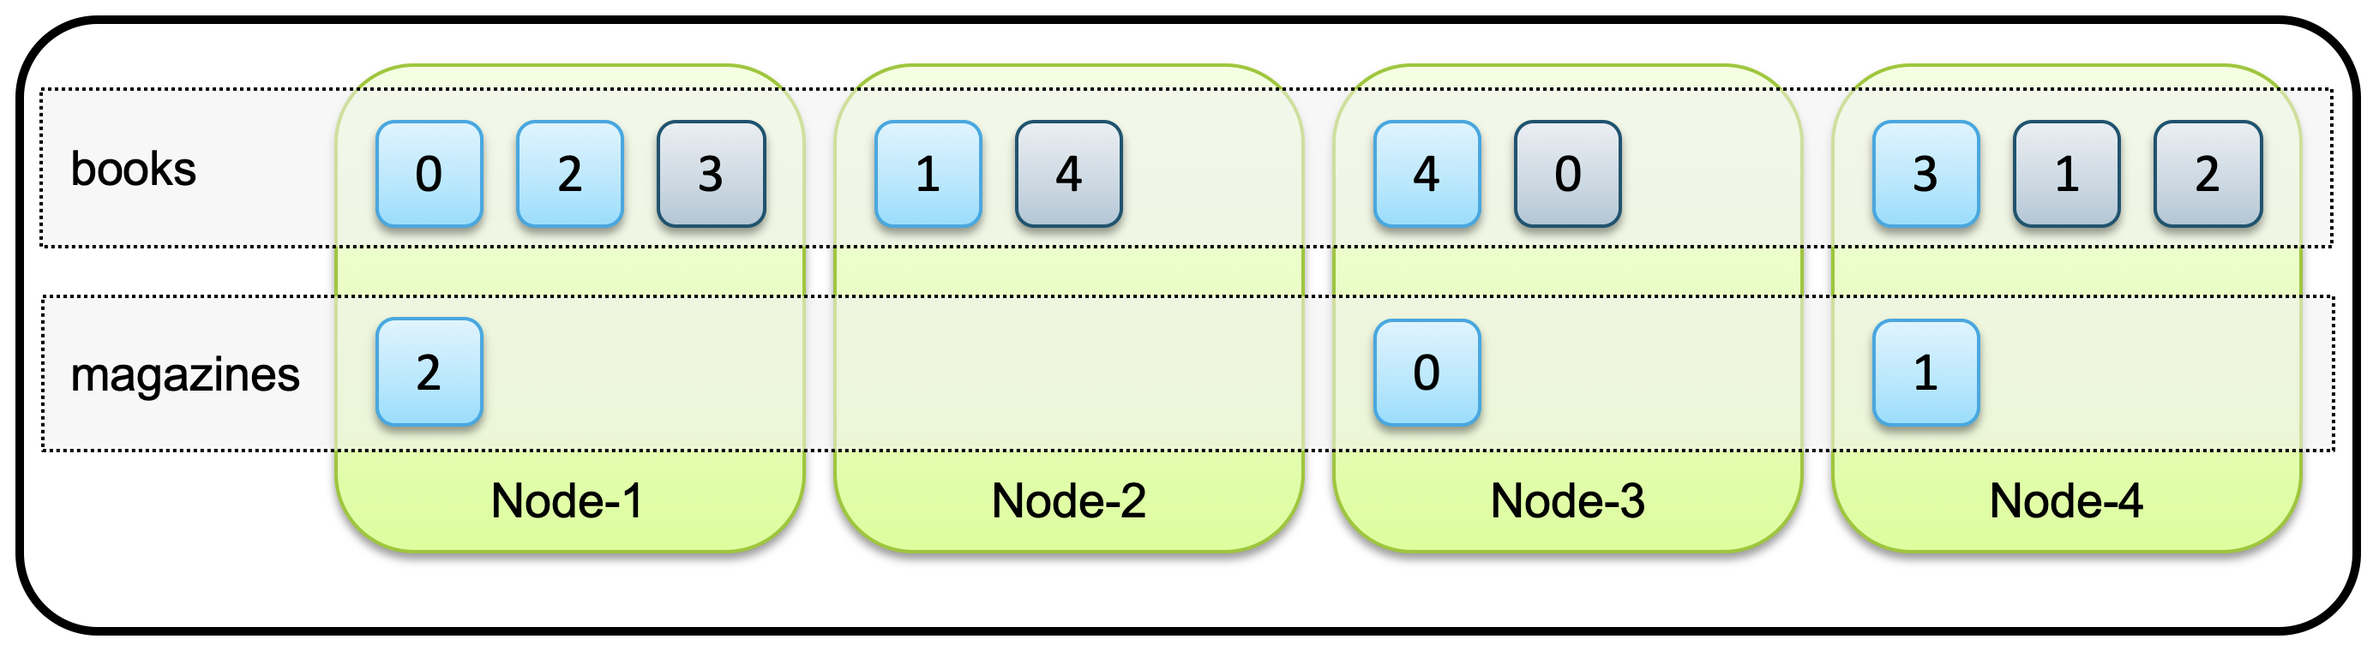
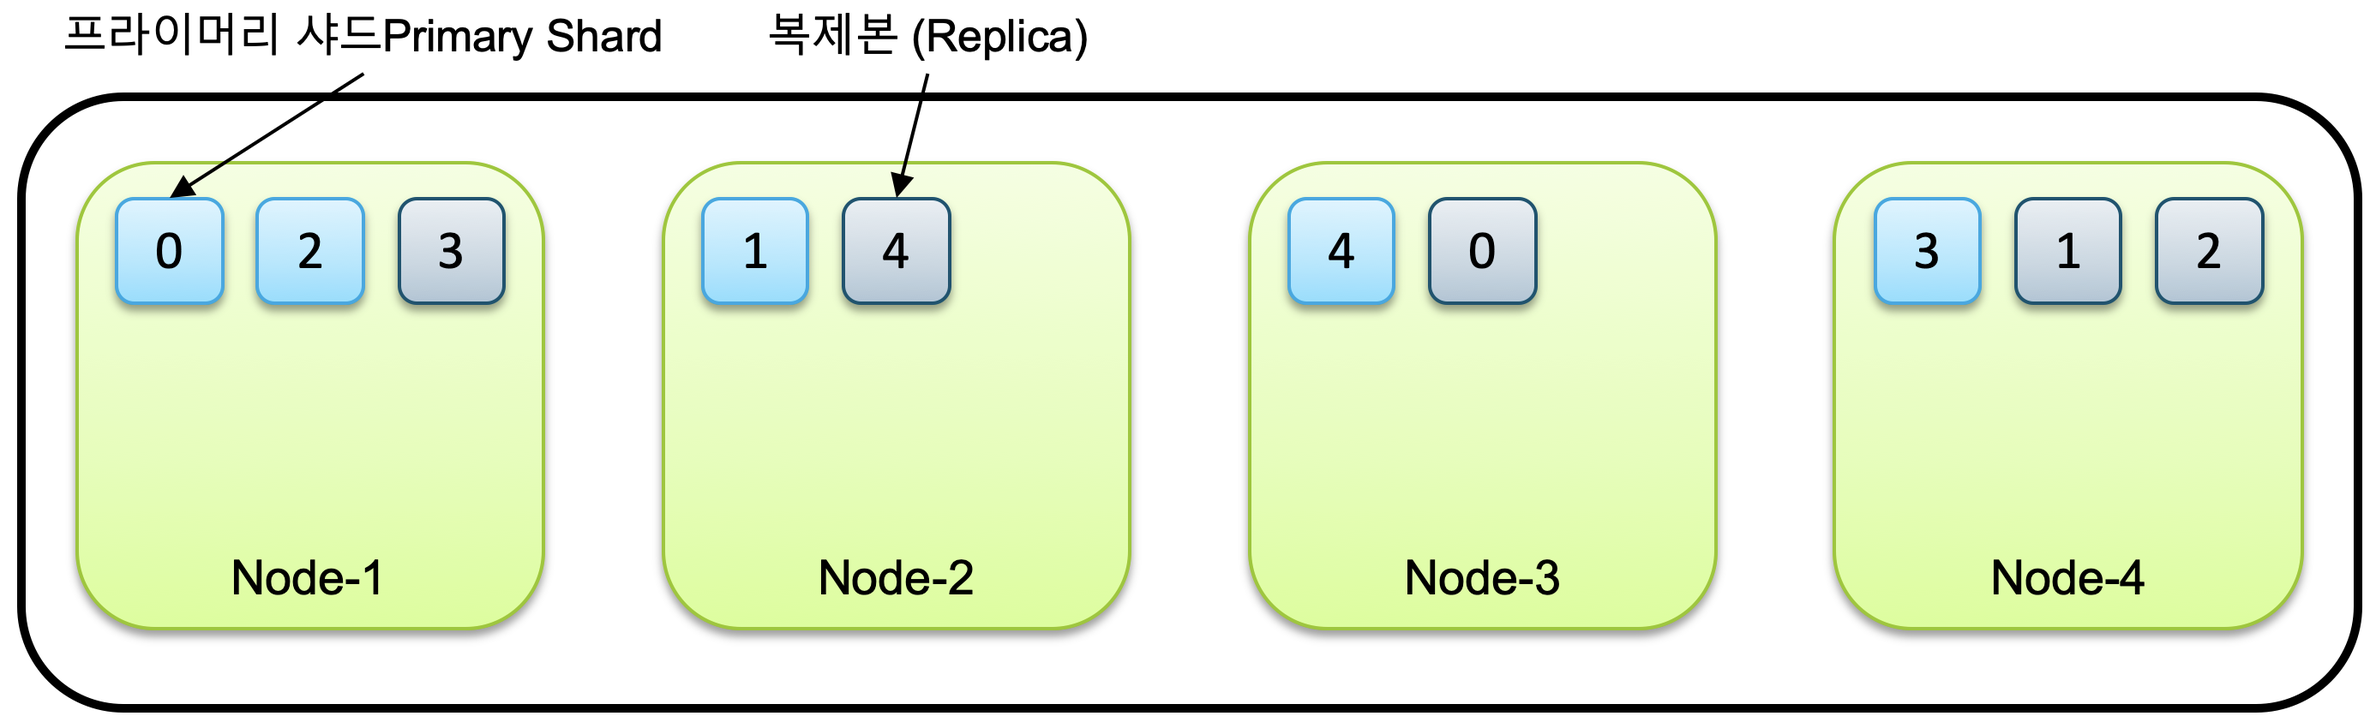
GitBook: [master] 10 pages and 25 assets modified

diff --git a/04-data/4.1-rest-api.md b/04-data/4.1-rest-api.md
@@ -1,0 +1,71 @@
+---
+description: >-
+  이 문서의 허가되지 않은 무단 복제나 배포 및 출판을 금지합니다. 본 문서의 내용 및 도표 등을 인용하고자 하는 경우 출처를 명시하고
+  김종민(kimjmin@gmail.com)에게 사용 내용을 알려주시기 바랍니다.
+---
+
+# 4.1 REST API
+
+  Elasticsearch는 http 프로토콜로 접근이 가능한 REST API를 지원합니다. 자원별로 고유 URL로 접근이 가능하며 http 메서드 PUT, POST, GET, DELETE 를 이용해서 자원을 처리합니다. 이런 특성을 가진 시스템을 보통 **RESTFul** 한 시스템이라고 말합니다.
+
+  REST API가 익숙치 않은 분들을 위해 간단한 비교 설명을 드리면 다음과 같습니다. 사용자 정보를 다루는 **user.com** 이라는 시스템이 있다고 가정하고 **name=kim, age=38, gender=m** 이라는 사용자 정보를 처리한다고 해 보겠습니다. REST를 지원하지 않는 시스템에서는 보통 다음과 같이 각 가능에 대한 개별 페이지로 접근하거나 명령을 매개변수로 처리합니다.
+
+#### RESTFul 하지 않은 시스템에서의 데이터 처리
+
+* 입력 : `http://user.com/input.jsp?name=kim&age=38&gender=m`
+* 조회 : `http://user.com/get.jsp?name=kim`
+* 삭제 : `http://user.com/delete.jsp?name=kim`
+
+  REST API를 지원하는 시스템은 kim 이라는 사용자에 대해 항상 단일 URL로 접근을 하고 **PUT, GET, DELETE** 같은 http 메서드로 데이터를 처리합니다
+
+#### RESTFul 한 시스템에서의 데이터 처리
+
+* 입력 : `PUT http://user.com/kim -d {"name":"kim", "age":38, "gender":"m"}`
+* 조회 : `GET http://user.com/kim`
+* 삭제 : `DELETE http://user.com/kim`
+
+### 유닉스 curl
+
+  MacOS, 리눅스와 같은 유닉스 기반 운영체제에서는 `curl` 명령어로 간편하게 REST API 사용이 가능합니다. Elasticsearch를 실행한 뒤 curl 명령을 이용해서 elasticsearch 클러스터의 최상위 경로를 호출하며 다음과 같이 클러스터의 상태 정보가 json 형식으로 리턴됩니다.
+
+{% code-tabs %}
+{% code-tabs-item title="GET 메서드로 elasticsearch 클러스터 조회" %}
+```bash
+$ curl -XGET "http://localhost:9200"
+{
+  "name" : "Jongminui-MacBook-Pro.local",
+  "cluster_name" : "elasticsearch",
+  "cluster_uuid" : "hpmT8TPiR1Kk69YNao9V3w",
+  "version" : {
+    "number" : "7.3.0",
+    "build_flavor" : "default",
+    "build_type" : "tar",
+    "build_hash" : "de777fa",
+    "build_date" : "2019-07-24T18:30:11.767338Z",
+    "build_snapshot" : false,
+    "lucene_version" : "8.1.0",
+    "minimum_wire_compatibility_version" : "6.8.0",
+    "minimum_index_compatibility_version" : "6.0.0-beta1"
+  },
+  "tagline" : "You Know, for Search"
+}
+```
+{% endcode-tabs-item %}
+{% endcode-tabs %}
+
+  리턴된 결과는 노드명, 클러스터명, Elasticsearch 버전, 루씬 버전 등의 정보들을 담고 있습니다.
+
+### Kibana Dev Tools
+
+  Rest API를 쉽게 사용하기 위해서는 [포스트맨](https://www.getpostman.com) 같은 도구를 사용할 수 있습니다. Kibana에는 elasticsearch 에서 REST API를 간편하게 실행할 수 있는 **Dev Tools** 라는 도구를 제공합니다.
+
+  먼저 Kibana를 실행하기 위해서는 Elastic 홈페이지 \([https://www.elastic.co](https://www.elastic.co)\)에서 운영체제별로 맞는 Kibana 버전을 내려받아 압축을 풀고 `bin/kibana` 또는 `bin/kibana.bat` \(윈도우즈\) 를 실행시키면 디폴트로 같은 호스트의 **localhost:9200** 에서 실행중인 elasticsearch와 통신하며 실행이 됩니다.
+
+  Elasticsearch와 Kibana가 서로 다른 호스트에서 실행되고 있거나 통신 포트가 9200이 아니면 Kibana 홈 config 디렉토리 아래에 있는 `kibana.yml` 파일에서 `elasticsearch.url: "http://localhost:9200"` 옵션을 설정하면 됩니다. 기본적으로 Kibana는 5601 포트에서 실행이 되며 변경하고 싶으면 `server.port: 5601` 을 변경하고 싶은 포트 값으로 설정합니다.
+
+  Kibana를 실행한 뒤 웹 브라우저를 열고 [http://localhost:5601](http://localhost:5601) 로 접속하면 Kibana를 바로 사용할 수 있습니다. Kibana Dev Tools는 쿼리의 자동 완성도 되고 호스트 경로도 별도로 입력할 필요가 없습니다. 그리고 Dev Tools 에서 입력한 명령을 curl 명령으로 변환하여 클립보드에 복사하는 것도 가능합니다.
+
+![Kibana &#xC758; Dev Tools &#xBA54;&#xB274;](../.gitbook/assets/image%20%2812%29.png)
+
+
+

diff --git a/03-cluster/3.2-index-and-shards.md b/03-cluster/3.2-index-and-shards.md
@@ -10,13 +10,13 @@ description: >-
 
    인덱스는 기본적으로 **샤드\(shard\)**라는 단위로 분리되고 각 노드에 분산되어 저장이 됩니다. 샤드는 루씬의 단일 검색 인스턴스 입니다. 다음은 하나의 인덱스가 5개의 샤드로 저장되도록 설정한 예 입니다.
 
-![&#xC778;&#xB371;&#xC2A4;&#xAC00; 5&#xAC1C;&#xC758; &#xC0E4;&#xB4DC;&#xB85C; &#xB098;&#xB204;&#xC5B4; &#xC800;&#xC7A5;&#xB41C; &#xC608;](../.gitbook/assets/image%20%2818%29.png)
+![&#xC778;&#xB371;&#xC2A4;&#xAC00; 5&#xAC1C;&#xC758; &#xC0E4;&#xB4DC;&#xB85C; &#xB098;&#xB204;&#xC5B4; &#xC800;&#xC7A5;&#xB41C; &#xC608;](../.gitbook/assets/image%20%2819%29.png)
 
 ### 프라이머리 샤드\(Primary Shard\)와 복제본\(Replica\)
 
   인덱스를 생성할 때 별도의 설정을 하지 않으면 **7.0** 버전부터는 **디폴트로 1**개의 샤드로 인덱스가 구성되며 **6.x** 이하 버전에서는 **5개**로 구성됩니다. 클러스터에 노드를 추가하게 되면 샤드들이 각 노드들로 분산되고 디폴트로 1개의 복제본을 생성합니다. 처음 생성된 샤드를 **프라이머리 샤드\(Primary Shard\)**, 복제본은 **리플리카\(Replica\)** 라고 부릅니다. 예를 들어 한 인덱스가 5개의 샤드로 구성어 있고, 클러스터가 4개의 노드로 구성되어 있다고 가정하면 각각 5개의 프라이머리 샤드와 복제본, 총 10개의 샤드들이 전체 노드에 골고루 분배되어 저장됩니다.
 
-![5&#xAC1C;&#xC758; &#xD504;&#xB77C;&#xC774;&#xBA38;&#xB9AC; &#xC0E4;&#xB4DC;&#xC640; &#xBCF5;&#xC81C;&#xBCF8;&#xC774; 4&#xAC1C;&#xC758; &#xB178;&#xB4DC;&#xC5D0; &#xBD84;&#xC0B0;&#xB418;&#xC5B4; &#xC800;&#xC7A5;&#xB41C; &#xC608;](../.gitbook/assets/image%20%2814%29.png)
+![5&#xAC1C;&#xC758; &#xD504;&#xB77C;&#xC774;&#xBA38;&#xB9AC; &#xC0E4;&#xB4DC;&#xC640; &#xBCF5;&#xC81C;&#xBCF8;&#xC774; 4&#xAC1C;&#xC758; &#xB178;&#xB4DC;&#xC5D0; &#xBD84;&#xC0B0;&#xB418;&#xC5B4; &#xC800;&#xC7A5;&#xB41C; &#xC608;](../.gitbook/assets/image%20%2815%29.png)
 
 {% hint style="danger" %}
 노드가 1개만 있는 경우 프라이머리 샤드만 존재하고 복제본은 생성되지 않습니다. Elasticsearch 는 아무리 작은 클러스터라도 데이터 가용성과 무결성을 위해 최소 3개의 노드로 구성 할 것을 권장하고 있습니.
@@ -24,7 +24,7 @@ description: >-
 
   같은 샤드와 복제본은 동일한 데이터를 담고 있으며 **반드시 서로 다른 노드에 저장이 됩니다**. 만약에 위 그림에서 Node-3 노드가 시스템 다운이나 네트워크 단절등으로 사라지면 이 클러스터는 Node-3 에 있던 0번과 4번 샤드들을 유실하게 됩니다. 하지만 아직 다른 노드들 Node-1, Node-2 에 0번, 4번 샤드가 남아있으므로 여전히 전체 데이터는 유실이 없이 사용이 가능합니다.
 
-![Node-3 &#xB178;&#xB4DC;&#xAC00; &#xC720;&#xC2E4;&#xB418;&#xC5B4; 0&#xBC88;, 4&#xBC88; &#xC0E4;&#xB4DC;&#xAC00; &#xB2E4;&#xB978; &#xB178;&#xB4DC;&#xC5D0; &#xBCF5;&#xC81C;&#xBCF8;&#xC744; &#xC0C8;&#xB85C; &#xC0DD;&#xC131;&#xD55C; &#xC608;](../.gitbook/assets/image%20%2819%29.png)
+![Node-3 &#xB178;&#xB4DC;&#xAC00; &#xC720;&#xC2E4;&#xB418;&#xC5B4; 0&#xBC88;, 4&#xBC88; &#xC0E4;&#xB4DC;&#xAC00; &#xB2E4;&#xB978; &#xB178;&#xB4DC;&#xC5D0; &#xBCF5;&#xC81C;&#xBCF8;&#xC744; &#xC0C8;&#xB85C; &#xC0DD;&#xC131;&#xD55C; &#xC608;](../.gitbook/assets/image%20%2820%29.png)
 
   처음에 클러스터는 먼저 유실된 노드가 복구 되기를 기다립니다. 하지만 타임아웃이 지나 더 유실된 노드가 복구되지 않는다고 판단이 되면 Elasticsearch는 복제본이 사라져 1개만 남은 0번, 4번 샤드들의 복제를 시작합니다. 처음에 4개였던 노드가 3개로 줄어도 복제가 끝나면 0~4번 까지의 프라이머리 샤드, 복제본이 각각 5개씩 총 10개의 데이터로 유지됩니다.
 
@@ -70,5 +70,5 @@ $ curl -XPUT "http://localhost:9200/books/_settings" -H 'Content-Type: applicati
 
   만약에 4개의 노드를 가진 클러스터에 프라이머리 샤드 5개, 복제본 1개인 books 인덱스, 그리고 프라이머리 샤드 3개 복제본 0개인 magazines 인덱스가 있다고 하면 전체 샤드들은 아래와 같은 모양으로 배치될 수 있습니다.
 
-![books &#xC778;&#xB371;&#xC2A4;&#xC640; magazines &#xC778;&#xB371;&#xC2A4;](../.gitbook/assets/image%20%2815%29.png)
+![books &#xC778;&#xB371;&#xC2A4;&#xC640; magazines &#xC778;&#xB371;&#xC2A4;](../.gitbook/assets/image%20%2816%29.png)
 

diff --git a/01-overview/1.1-elastic-stack/1.1.3-kibana.md b/01-overview/1.1-elastic-stack/1.1.3-kibana.md
@@ -6,7 +6,7 @@ description: >-
 
 # 1.1.3 Kibana
 
-![Elastic Stack&#xC744; &#xB4E4;&#xC5EC;&#xB2E4;&#xBCF4;&#xB294; &#xCC3D; - https://www.elastic.co/kr/products/kibana](../../.gitbook/assets/image%20%2827%29.png)
+![Elastic Stack&#xC744; &#xB4E4;&#xC5EC;&#xB2E4;&#xBCF4;&#xB294; &#xCC3D; - https://www.elastic.co/kr/products/kibana](../../.gitbook/assets/image%20%2828%29.png)
 
   어떤 도구가 사용자들에게 선택되기 위한 가장 중요한 요소 중 하나가 바로 시각화 입니다. 다행이 Elasticsearch는 Restful 한 속성과 JSON 문서 기반의 통신을 지원하기에 http 프로토콜을 이용해 어떤 클라이언트와도 손쉽게 연동이 가능합니다. 그래서 개발자들이 Elasticsearch와 연동되는 다양한 시각화 도구를 개발하였고, 이 중 라시드 칸\(Rashid Khan\)이 개발한 Kibana 라는 시각화 도구가 큰 인기를 끌었습니다.
 
@@ -24,13 +24,13 @@ description: >-
 
 ![Visualization &#xC2DC;&#xAC01;&#xD654; &#xB3C4;&#xAD6C; &#xC120;&#xD0DD; &#xD654;&#xBA74;](../../.gitbook/assets/image%20%282%29.png)
 
-![Kibana Visualization&#xC758; &#xD30C;&#xC774;&#xCC28;&#xD2B8; &#xC81C;&#xC791; &#xD654;&#xBA74;](../../.gitbook/assets/image%20%2812%29.png)
+![Kibana Visualization&#xC758; &#xD30C;&#xC774;&#xCC28;&#xD2B8; &#xC81C;&#xC791; &#xD654;&#xBA74;](../../.gitbook/assets/image%20%2813%29.png)
 
 ### Dashboard
 
   Visualize 메뉴에서 만들어진 시각화 도구들을 조합해서 대시보드 화면을 만들고 저장, 불러오기 등을 할 수 있는 메뉴입니다. 다른 메뉴들과 마찬가지로 검색 창에 쿼리를 입력하거나 시각화 도구들을 클릭해서 조회할 데이터들의 필터링이 가능하고, URL로 대시보드를 다른 사람들과 공유하거나 json 형식으로 내보내고 불러오기 등이 가능합니다.
 
-![Kibana &#xB300;&#xC2DC;&#xBCF4;&#xB4DC; &#xD654;&#xBA74;](../../.gitbook/assets/image%20%2830%29.png)
+![Kibana &#xB300;&#xC2DC;&#xBCF4;&#xB4DC; &#xD654;&#xBA74;](../../.gitbook/assets/image%20%2831%29.png)
 
   그밖에도 Kibana 5.x 버전부터는 이전 버전에서는 플러그인으로 추가해야 했던 Timelion이 기본으로 내장되었으며, 간편한 개발 도구였던 Sense역시 Dev Tools 라는 이름의 메뉴로 업그레이드 되어 기본으로 내장되었습니다. 또한 Elastic에서 제공하는 유료 플러그인인 X-Pack을 설치하게 되면 Monitoring 기능을 이용해서 Elasticsearch 클러스터 상태를 모니터링 하거나, Graph 모듈을 이용해서 관계도 분석이 가능하고, Reporting을 사용한 Kibana화면의 PDF 출력도 가능합니다.
 
@@ -38,7 +38,7 @@ description: >-
 
   여담으로 Kibana 역시 현재는 Elastic Stack에 어우러지는 로고로 디자인 되었지만 초기에는 아프리카의 움집 모양의 로고를 사용했습니다. Kibana창시자인 라시드는 Elasticsearch시각화 도구를 만들면서 처음에는 수집기인 Logstash의 통나무 로고와 잘 어울릴만한 이름인 영문 오두막 캐빈\(cabin\)을 생각했습니다. 하지만 흔한 명사라 좀 더 특이한 이름을 고민하며 cabin을 다른 나라 언어로 하면 어떨까 생각했고, 구글 번역기로 여러 언어로 번역 해 보던 중 아프리카 스와힐리어로 오두막이 kibana라는 것을 찾고 나서 마음에 들어 이 이름을 선택했습니다. 하지만 이것은 구글 번역기의 오류였고 실제 스와힐리어로 오두막은 키바나\(kibana\)가 아닌 키반다\(kibanda\) 였습니다.
 
-![Kibana &#xC758; &#xCD08;&#xAE30; &#xBC84;&#xC804; &#xB85C;&#xACE0;](../../.gitbook/assets/image%20%2834%29.png)
+![Kibana &#xC758; &#xCD08;&#xAE30; &#xBC84;&#xC804; &#xB85C;&#xACE0;](../../.gitbook/assets/image%20%2835%29.png)
 
   추가적으로 Kibana는 일본에 있는 기차역 이름이기도 하고, 바르셀로나에 있는 레스토랑의 이름이기도 합니다.
 

diff --git a/03-cluster/3.3-master-and-data-nodes.md b/03-cluster/3.3-master-and-data-nodes.md
@@ -72,7 +72,7 @@ node.data: false
 
   Kibana의 Monitoring 화면에서 노드의 역할들을 확인할 수 있습니다. 대부분의 Elastic Stack 모니터링 도구에서 마스터 노드는 별\(⭑\) 표시로 구분합니다.
 
-![Kibana &#xBAA8;&#xB2C8;&#xD130;&#xB9C1; &#xD654;&#xBA74;&#xC5D0;&#xC11C; &#xB9C8;&#xC2A4;&#xD130; &#xB178;&#xB4DC;&#xC640; &#xB370;&#xC774;&#xD130; &#xB178;&#xB4DC; &#xD655;&#xC778;](../.gitbook/assets/image%20%2835%29.png)
+![Kibana &#xBAA8;&#xB2C8;&#xD130;&#xB9C1; &#xD654;&#xBA74;&#xC5D0;&#xC11C; &#xB9C8;&#xC2A4;&#xD130; &#xB178;&#xB4DC;&#xC640; &#xB370;&#xC774;&#xD130; &#xB178;&#xB4DC; &#xD655;&#xC778;](../.gitbook/assets/image%20%2836%29.png)
 
 {% hint style="danger" %}
 실제 운영 환경에서는 위 예제처럼 마스터 후보를 노드는 1개만 설정하면 안 되고 최소 3개 이상의 홀수개로 설정해야 합니다. 이유는 다음의 Split Brain 문제에서 설명합니다.
@@ -82,7 +82,7 @@ node.data: false
 
   마스터 후보 노드를 하나만 놓게 되면 그 마스터 노드가 유실되었을 때 클러스터 전체가 작동을 정지 할 위험이 있습니다. 그래서 최소한의 백업용 마스터 노드를 설정하게 되는데 이 때 마스터 후보 노드들은 3개 이상의 홀수 개를 놓는 것을 권장하고 있습니다. 만약에 마스터 후보 노드를 2개 혹은 짝수로 운영하는 경우 네트워크 유실로 인해 다음과 같은 상황을 겪을 수 있습니다.
 
-![&#xB124;&#xD2B8;&#xC6CC;&#xD06C; &#xB2E8;&#xC808;&#xB85C; &#xC778;&#xD55C; &#xD074;&#xB7EC;&#xC2A4;&#xD130; &#xBD84;&#xB9AC;](../.gitbook/assets/image%20%2817%29.png)
+![&#xB124;&#xD2B8;&#xC6CC;&#xD06C; &#xB2E8;&#xC808;&#xB85C; &#xC778;&#xD55C; &#xD074;&#xB7EC;&#xC2A4;&#xD130; &#xBD84;&#xB9AC;](../.gitbook/assets/image%20%2818%29.png)
 
   위와 같이 네트워크 단절로 마스터 후보 노드인 node-1 과 node-2 가 분리되면 각자가 서로 다른 클러스터로 구성되어 계속 동작하는 경우가 있을 수 있습니다. 이 상태에서 각자의 클러스터에 데이터가 추가되거나 변경되고 나면 나중에 네트워크가 복구 되고 하나의 클러스터로 다시 합쳐졌을 때 데이터 정합성에 문제가 생기고 데이터 무결성이 유지될 수 없게 됩니다. 이런 문제를 **Split Brain** 이라고 합니다.
 

diff --git a/03-cluster/3.1-cluster-settings.md b/03-cluster/3.1-cluster-settings.md
@@ -14,7 +14,7 @@ description: >-
 
   하나의 물리적인 서버 안에서 여러 개의 노드를 실행하는 것도 가능합니다. 이 경우에는 각 노드들은 차례대로 9200, 9201… 순으로 포트를 사용하게 됩니다. 클라이언트는 9200, 9201 등의 포트를 통해 원하는 노드와 통신을 할 수 있습니다. 만약에 서버1 에서 두개의 노드를 실행하고, 또 다른 서버에서 한개의 노드를 실행시키면 클러스터는 다음과 같이 구성됩니다.
 
-![&#xD558;&#xB098;&#xC758; &#xBB3C;&#xB9AC; &#xC11C;&#xBC84;&#xC5D0;&#xC11C; &#xC5EC;&#xB7EC; &#xAC1C;&#xC758; &#xB178;&#xB4DC; &#xC2E4;&#xD589;](../.gitbook/assets/image%20%2828%29.png)
+![&#xD558;&#xB098;&#xC758; &#xBB3C;&#xB9AC; &#xC11C;&#xBC84;&#xC5D0;&#xC11C; &#xC5EC;&#xB7EC; &#xAC1C;&#xC758; &#xB178;&#xB4DC; &#xC2E4;&#xD589;](../.gitbook/assets/image%20%2829%29.png)
 
   서버1에는 두개의 노드가 있기 때문에 서버 1의 두번째 노드는 실행되는 http, tcp 포트가 각각 9201, 9301 로 실행이 됩니다.
 
@@ -197,7 +197,7 @@ $ bin/elasticsearch -Ecluster.name=es-cluster-2 -Enode.name=node-3
 2. 주소가 끝날 때 까지 노드를 찾지 못한 경우
    * 스스로 새로운 클러스터 시작
 
-![&#xB514;&#xC2A4;&#xCEE4;&#xBC84;&#xB9AC; &#xACFC;&#xC815;](../.gitbook/assets/image%20%2829%29.png)
+![&#xB514;&#xC2A4;&#xCEE4;&#xBC84;&#xB9AC; &#xACFC;&#xC815;](../.gitbook/assets/image%20%2830%29.png)
 
 {% hint style="warning" %}
 클러스터에 노드가 무수히 많아도 보통 `discovery.seed_hosts` 설정에는 처음에 탐색할 노드 3~5 개 정도만 설정 하면 큰 문제 없이 클러스터가 바인딩 됩니다. 보통은 마스터 후보 노드들을 지정하게 되며 처음 탐색하는 대상 노드는 반드시 먼저 가동중이어야 합니다.

diff --git a/02-install/2.2/README.md b/02-install/2.2/README.md
@@ -8,11 +8,11 @@ description: >-
 
   Elasticsearch는 홈페이지 \([https://www.elastic.co](https://www.elastic.co%29의)\)의 Product 또는 다운로드 메뉴를 통해 다운로드를 할 수 있습니다. 다음과 같이 ZIP, TAR, DEB, RPM 등의 다운로드 파일과 yum, apt-get 등의 설치에 대한 메뉴얼이 있습니다.
 
-![Elasticsearch &#xB2E4;&#xC6B4;&#xB85C;&#xB4DC; &#xD398;&#xC774;&#xC9C0; - https://www.elastic.co/downloads/elasticsearch](../../.gitbook/assets/image%20%2832%29.png)
+![Elasticsearch &#xB2E4;&#xC6B4;&#xB85C;&#xB4DC; &#xD398;&#xC774;&#xC9C0; - https://www.elastic.co/downloads/elasticsearch](../../.gitbook/assets/image%20%2833%29.png)
 
   ZIP 또는 TAR 파일을 내려받아 압축을 풀고, 생성된 bin 디렉토리 아래에 있는 elasticsearch \(Windowns의 경우 elasticsearch.bat\) 파일을 실행합니다. 데비안이나 레드햇 리눅스 시스템의 경우 DEB, RPM 파일을 내려받아 백그라운드 서비스로 실행도 가능합니다.
 
   6.3 버전 부터는 아파치 2.0 라이센스와 Elastic 라이센스 \(X-Pack\) 가 혼합된 배포판을 기본으로 제공하기 때문에 아파치 2.0 라이센스에 속한 기능만을 내려받으려면 OSS 페이지로 이동해서 내려받아야 합니다.
 
-![Apache 2.0 &#xB77C;&#xC774;&#xC13C;&#xC2A4; &#xBC84;&#xC804; - https://www.elastic.co/downloads/elasticsearch-oss](../../.gitbook/assets/image%20%2823%29.png)
+![Apache 2.0 &#xB77C;&#xC774;&#xC13C;&#xC2A4; &#xBC84;&#xC804; - https://www.elastic.co/downloads/elasticsearch-oss](../../.gitbook/assets/image%20%2824%29.png)
 

diff --git a/01-overview/1.1-elastic-stack/1.1.4-beats.md b/01-overview/1.1-elastic-stack/1.1.4-beats.md
@@ -6,7 +6,7 @@ description: >-
 
 # 1.1.4 Beats
 
-![&#xACBD;&#xB7C9; &#xB370;&#xC774;&#xD130; &#xC218;&#xC9D1;&#xAE30; - https://www.elastic.co/kr/products/beats](../../.gitbook/assets/image%20%2816%29.png)
+![&#xACBD;&#xB7C9; &#xB370;&#xC774;&#xD130; &#xC218;&#xC9D1;&#xAE30; - https://www.elastic.co/kr/products/beats](../../.gitbook/assets/image%20%2817%29.png)
 
   Logstash가 데이터 수집기로서의 역할을 훌륭하게 해 내고 있지만 너무 다양한 기능 때문에 프로그램의 부피가 컸고 실행하는 데에 꽤 많은 자원을 필요로 했습니다. Elasticsearch 클러스터로의 대용량 데이터 전송은 보통 하나의 소스가 아닌 다양한 시스템들로부터 수집을 하였기에 그 모든 단말 시스템에 Logstash를 설치하는 것은 적지 않은 부담이었습니다. 그래서 Logstash팀은 단말 시스템으로 부터 데이터를 수집하고 필터기능 없이 가볍게 Elasticsearch 또는 Logstash로 데이터를 전송하는 Lumberjack 이라는 이름의 일종의 포워더 성격의 원격 수집기를 개발 중에 있었습니다.
 
@@ -48,5 +48,5 @@ description: >-
 
   Beats 역시 현재는 Elastic Stack에 맞는 로고로 다시 디자인 되었지만 처음 로고는 모니카가 디자인 했던 물고기 였습니다.
 
-![Beats&#xC758; &#xC61B; &#xB85C;&#xACE0;](../../.gitbook/assets/image%20%2813%29.png)
+![Beats&#xC758; &#xC61B; &#xB85C;&#xACE0;](../../.gitbook/assets/image%20%2814%29.png)
 

diff --git a/01-overview/1.1-elastic-stack/1.1.1-elasticsearch.md b/01-overview/1.1-elastic-stack/1.1.1-elasticsearch.md
@@ -6,7 +6,7 @@ description: >-
 
 # 1.1.1 Elasticsearch
 
-![Elastic Stack&#xC758; &#xC2EC;&#xC7A5; - https://www.elastic.co/kr/products/elasticsearch](../../.gitbook/assets/image%20%2831%29.png)
+![Elastic Stack&#xC758; &#xC2EC;&#xC7A5; - https://www.elastic.co/kr/products/elasticsearch](../../.gitbook/assets/image%20%2832%29.png)
 
   Elastic 홈페이지에서는 Elasticsearch를 Elastic Stack의 심장이라고 소개하고 있는 만큼 Elasticsearch는 전체 스택의 중심이며 가장 중요한 역할을 하고 있습니다. 기본적으로 모든 데이터를 색인하여 저장하고 검색, 집계 등을 수행하며 결과를 클라이언트 또는 다른 프로그램으로 전달하여 동작하게 합니다.
 

diff --git a/04-data/README.md b/04-data/README.md
@@ -1,0 +1,10 @@
+---
+description: >-
+  이 문서의 허가되지 않은 무단 복제나 배포 및 출판을 금지합니다. 본 문서의 내용 및 도표 등을 인용하고자 하는 경우 출처를 명시하고
+  김종민(kimjmin@gmail.com)에게 사용 내용을 알려주시기 바랍니다.
+---
+
+# 4. Elasticsearch 데이터 처리
+
+  Elasticsearch는 데이터 저장 형식으로 **json** 도큐먼트를 사용합니다. 데이터 저장 형식 뿐 아니라 쿼리와 클러스터 설정 등 모든 정보를 json 형태로 주고받기 때문에 elasticsearch의 사용을 위해서는 json 사용에 익숙해져야 합니다.
+

diff --git a/SUMMARY.md b/SUMMARY.md
@@ -22,4 +22,6 @@
   * [3.1 클러스터 구성](03-cluster/3.1-cluster-settings.md)
   * [3.2 인덱스와 샤드 \(Index & Shards\)](03-cluster/3.2-index-and-shards.md)
   * [3.3 마스터 노드와 데이터 노드](03-cluster/3.3-master-and-data-nodes.md)
+* [4. Elasticsearch 데이터 처리](04-data/README.md)
+  * [4.1 REST API](04-data/4.1-rest-api.md)
 
